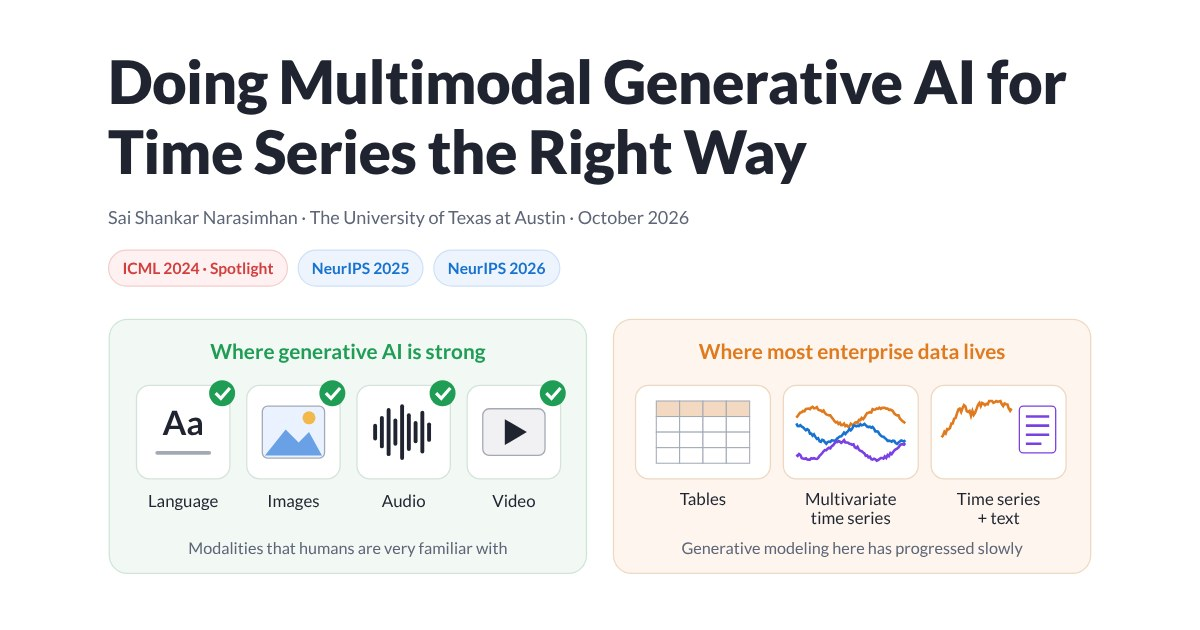
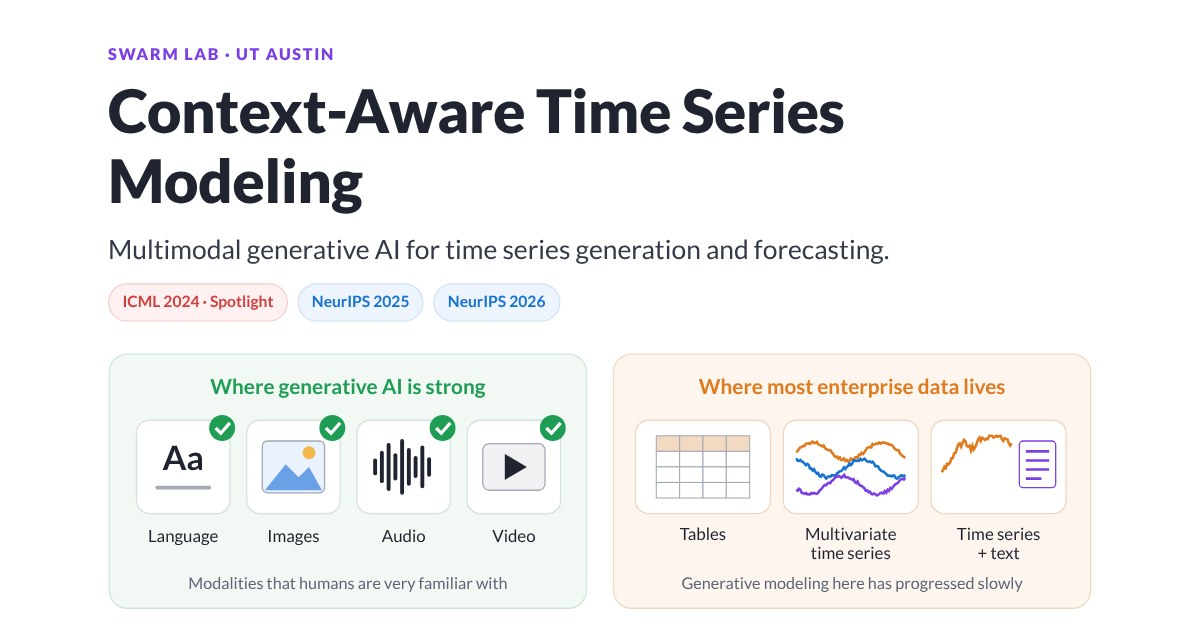
New title

diff --git a/blog/multimodal-ts/index.html b/blog/multimodal-ts/index.html
@@ -3,11 +3,11 @@
 <head>
 <meta charset="UTF-8">
 <meta name="viewport" content="width=device-width, initial-scale=1">
-<title>Doing Multimodal Generative AI for Time Series the Right Way | Sai Shankar Narasimhan</title>
+<title>Context-Aware Time Series Modeling | SWARM Lab, UT Austin</title>
 <meta name="author" content="Sai Shankar Narasimhan">
 <meta name="description" content="Why time series should always be modeled with their context, and three papers (ICML 2024, NeurIPS 2025, NeurIPS 2026) that do this for generation and forecasting.">
 <meta property="og:type" content="article">
-<meta property="og:title" content="Doing Multimodal Generative AI for Time Series the Right Way">
+<meta property="og:title" content="Context-Aware Time Series Modeling | SWARM Lab, UT Austin">
 <meta property="og:description" content="Time Weaver (ICML 2024), Constrained Posterior Sampling (NeurIPS 2025), and Context as Covariates (NeurIPS 2026): pairing time series with their context.">
 <meta property="og:url" content="https://saishankarn.github.io/blog/multimodal-ts/">
 <meta property="og:image" content="https://saishankarn.github.io/blog/multimodal-ts/img/og.jpg">
@@ -47,6 +47,8 @@
   h2 { font-size: 27px; line-height: 1.25; margin: 56px 0 12px; font-weight: 900; }
   h3 { font-size: 22px; line-height: 1.3; margin: 40px 0 6px; font-weight: 900; }
   p { margin: 0 0 16px; }
+  .kicker { font-size: 13.5px; font-weight: 900; letter-spacing: 1.4px; text-transform: uppercase; color: var(--purple); margin-bottom: 8px; }
+  .dek { font-size: 20px; line-height: 1.4; color: #343a47; margin: 0 0 12px; }
   .byline { color: var(--muted); font-size: 15px; margin-bottom: 14px; }
   .badges { display: flex; flex-wrap: wrap; gap: 8px; margin: 6px 0 4px; }
   .badge { display: inline-block; font-size: 13px; font-weight: 700; padding: 4px 11px; border-radius: 999px; background: #eef4fd; color: var(--blue); border: 1px solid #cfe0f7; white-space: nowrap; }
@@ -159,8 +161,10 @@
 <main class="wrap">
 
 <header class="hero">
-  <h1>Doing Multimodal Generative AI for Time Series the Right Way</h1>
-  <div class="byline">Sai Shankar Narasimhan &middot; The University of Texas at Austin &middot; October 2026</div>
+  <div class="kicker">SWARM Lab &middot; UT Austin</div>
+  <h1>Context-Aware Time Series Modeling</h1>
+  <div class="dek">Multimodal generative AI for time series generation and forecasting.</div>
+  <div class="byline">Sai Shankar Narasimhan &middot; October 2026</div>
   <div class="badges">
     <a class="badge spot" href="#time-weaver">ICML 2024 &middot; Spotlight</a>
     <a class="badge" href="#cps">NeurIPS 2025</a>
